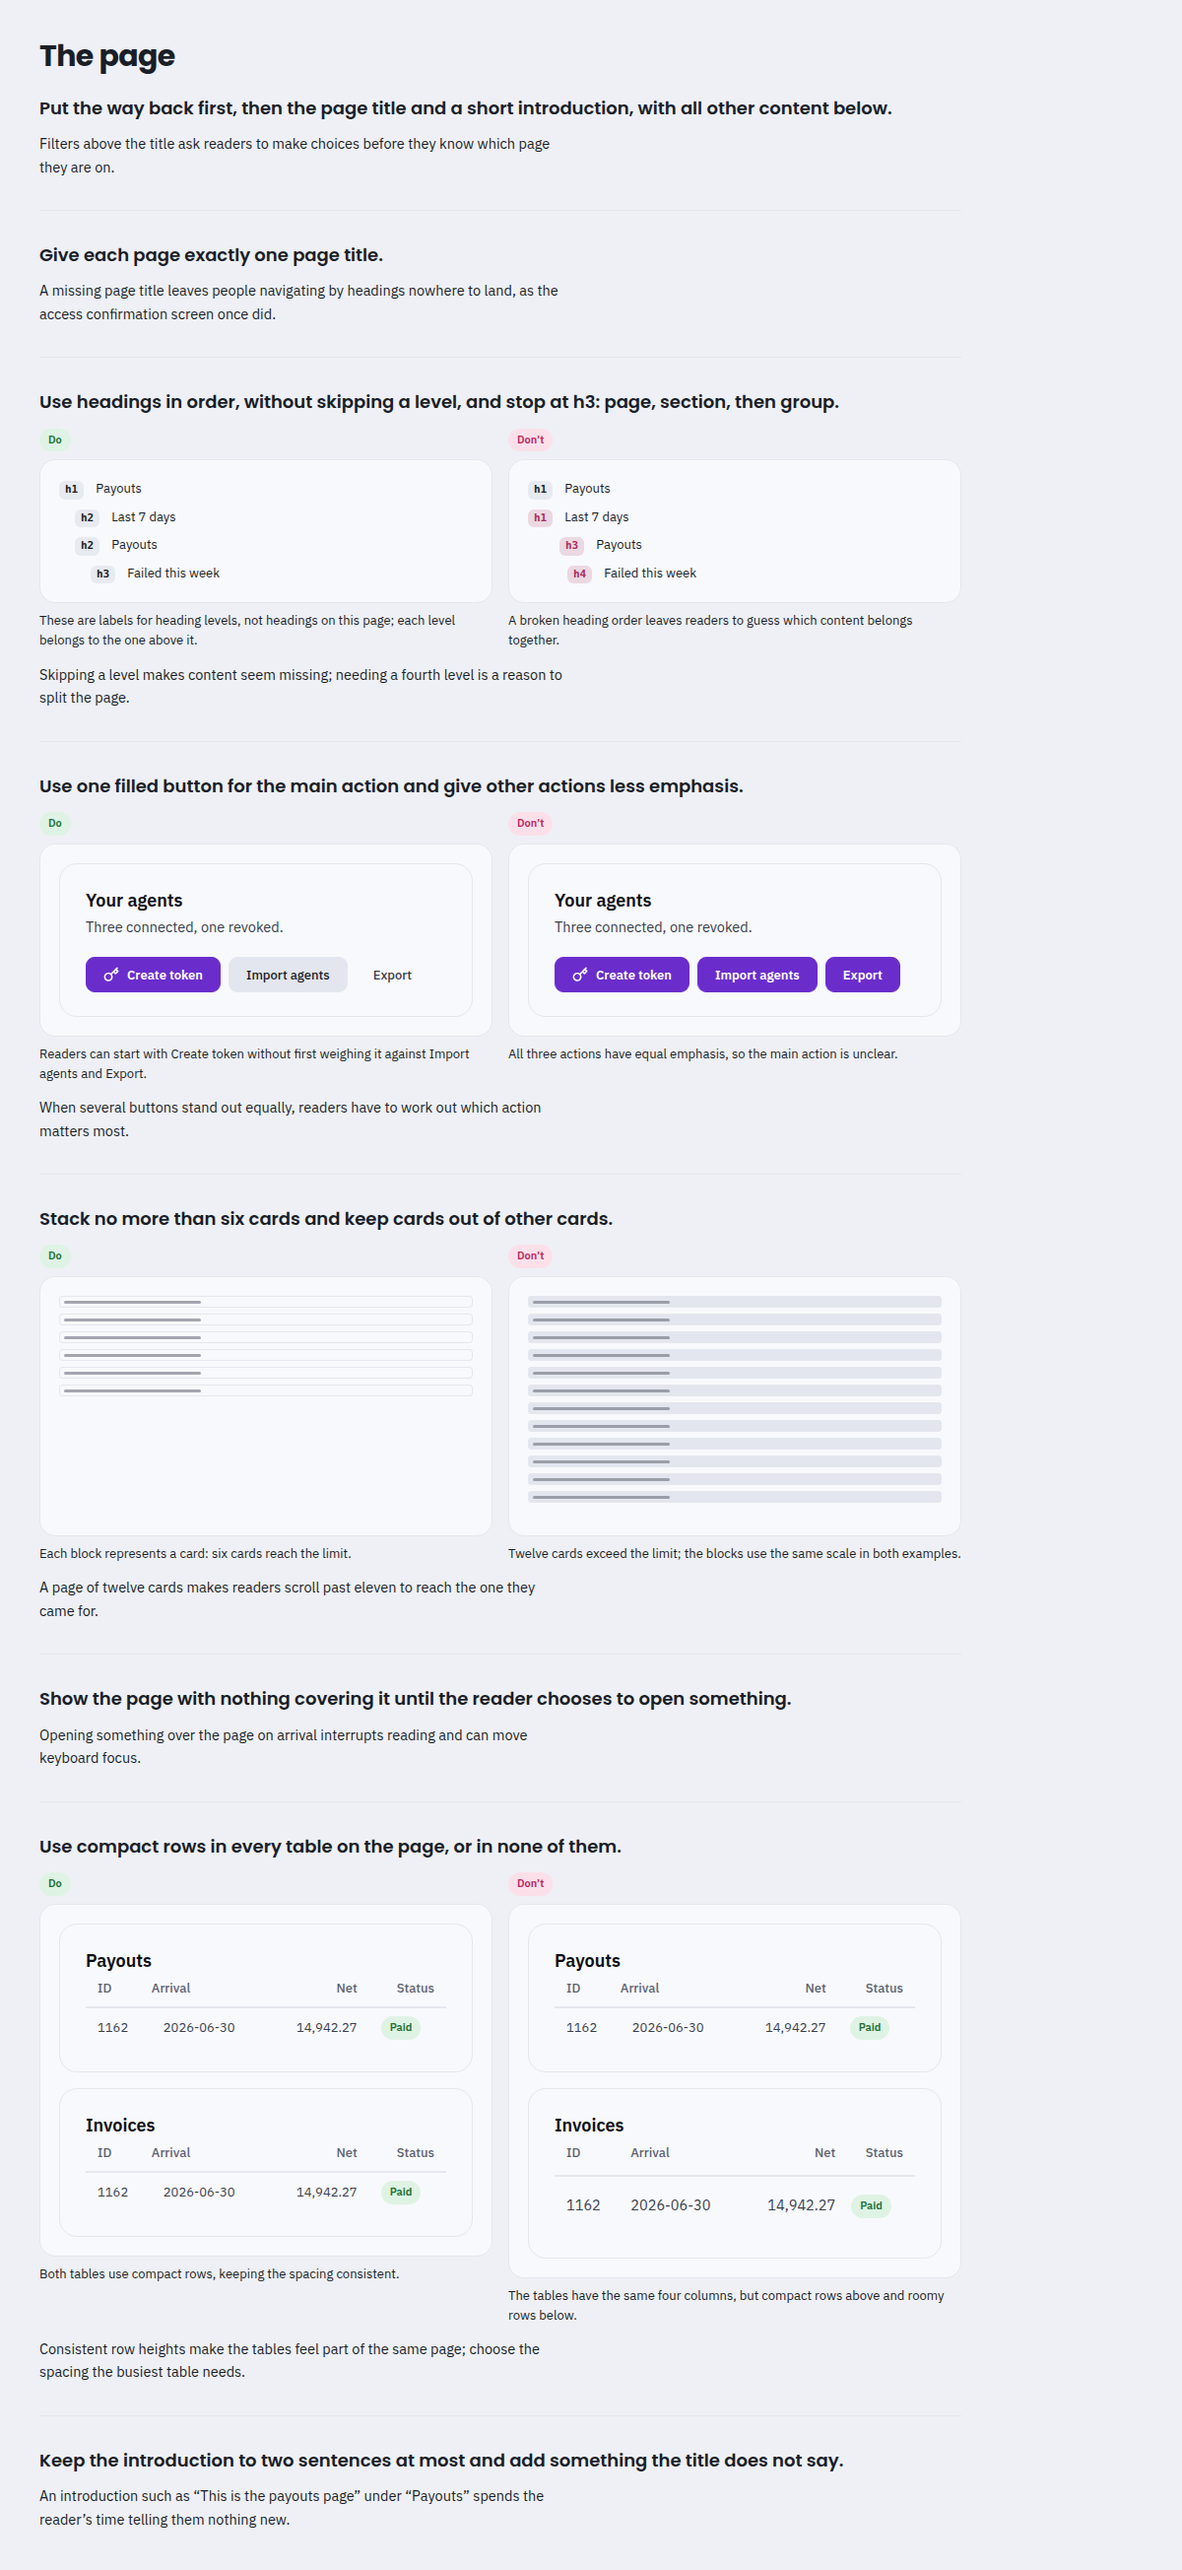
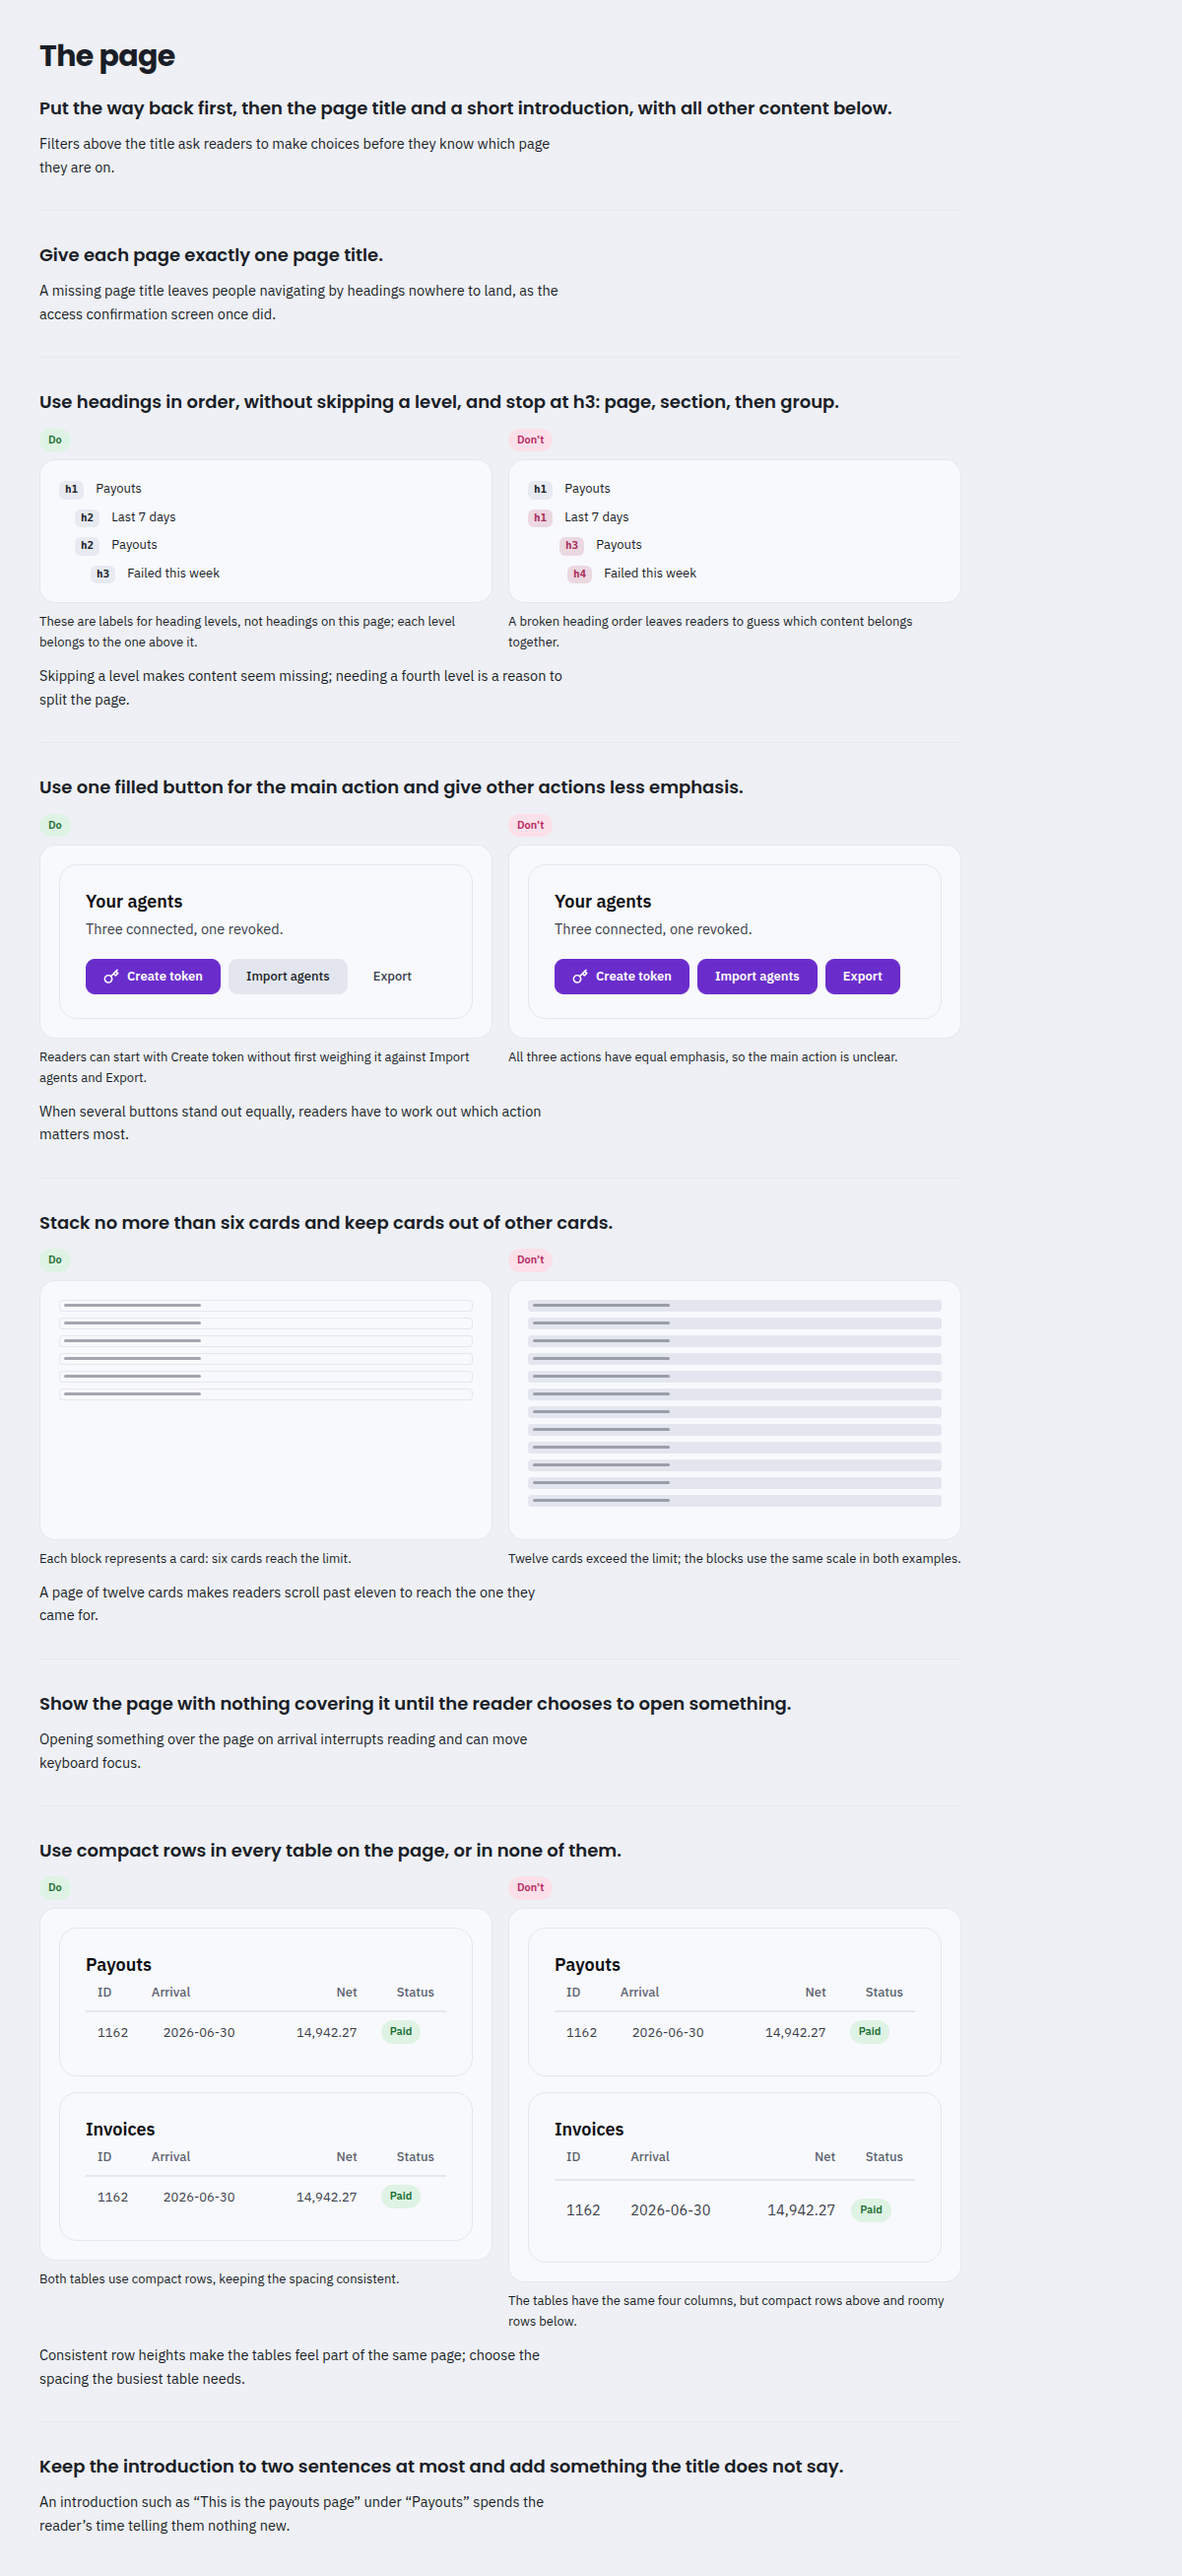
Review round 1: the caption inherits its leading, and the sweep reads HTML (#310)
The rank table says a caption's line-height is inherited, and the page's rule
left the property out — but the shared sheet's `font` shorthand had pinned 1.55
on the same selector earlier in the cascade, so the rule rendered at a number of
the page's own. `.gc-cell__cap` writes `line-height: inherit`, and the gate
accepts that one value where a rank inherits its leading, with a mutation
putting 1.55 back.

The widened sweep listed every extension but `.html`, while the sibling gate
named beside it in the specification sweeps the same directories including it.
Two site pages carry a <style> block, so a note in one would have been read by
nobody. A missing directory no longer throws either.

Evidence re-shot: the caption is 21.06px now and the page 2614px.

Claude-Session: https://claude.ai/code/session_017cDCVVizw1yrDKcUvECFx8

diff --git a/src/styles/type-ranks.test.js b/src/styles/type-ranks.test.js
@@ -12,7 +12,7 @@
  */
 import { test } from 'node:test';
 import assert from 'node:assert/strict';
-import { readFileSync } from 'node:fs';
+import { existsSync, readFileSync } from 'node:fs';
 import path from 'node:path';
 import { fileURLToPath } from 'node:url';
 import { kitSheetNames, walk } from '../../scripts/lib/icon-cascade.js';
@@ -30,10 +30,10 @@ const TOKENS = readFileSync(path.join(src, 'tokens/tokens.css'), 'utf8');
  * mutations below are strings, not rules anybody renders.
  * why: CONTRIBUTING.md#a-gate-discovers-its-subjects-and-never-enumerates-them */
 const DRAWN_IN = ['stories', 'site', 'react/src', '.storybook'];
-const READ = /\.(?:css|m?js|jsx|tsx?)$/;
+const READ = /\.(?:css|m?js|jsx|tsx?|html)$/;
 const SHEETS = [
   ...kitSheetNames(src).map((rel) => ({ rel: `src/${rel}`, css: readFileSync(path.join(src, rel), 'utf8') })),
-  ...DRAWN_IN.flatMap((dir) => walk(path.join(root, dir))
+  ...DRAWN_IN.map((dir) => path.join(root, dir)).filter(existsSync).flatMap((dir) => walk(dir)
     .filter((f) => READ.test(f) && !/\.test\.[a-z]+$/.test(f))
     .map((f) => ({ rel: path.relative(root, f), css: readFileSync(f, 'utf8') }))),
 ];
@@ -106,9 +106,12 @@ const rankProblems = (ranks, rules) => {
           + `the rule has ${r.decls[prop] ?? 'none'}.`);
       }
     }
-    if (!rank.leading && 'line-height' in r.decls) {
+    // `inherit` is the one line-height a rank that inherits one may write, and a
+    // restated selector needs it: an earlier rule for the same element can have
+    // pinned a number, and omitting the property does not take that back.
+    if (!rank.leading && 'line-height' in r.decls && r.decls['line-height'] !== 'inherit') {
       out.push(`${r.where} \`${r.selector}\` is rank ${rank.name}, which inherits its line-height; `
-        + `the rule sets ${r.decls['line-height']}.`);
+        + `the rule sets ${r.decls['line-height']}. Write \`inherit\` or nothing.`);
     }
   }
   return out;
@@ -243,6 +246,14 @@ test('a caption at the label’s weight has nothing left to hold it under the la
   const got = orderProblems(RANKS.map((r) => (r.name === 'caption' ? { ...r, weight: '--weight-medium' } : r)), TOKENS);
   assert.equal(got.length, 1, got.join('\n'));
   assert.match(got[0], /caption shares label's 13px and is not lighter than it/);
+});
+
+test('a number where a rank inherits its leading is caught, and `inherit` is not', () => {
+  const pinned = rankProblems(RANKS, notedRules(mutate('stories/guidelines/_the-page.js',
+    'line-height: inherit;', 'line-height: 1.55;')));
+  assert.equal(pinned.length, 1, pinned.join('\n'));
+  assert.match(pinned[0], /`\.gc-cell__cap` is rank caption, which inherits its line-height; the rule sets 1\.55/);
+  assert.deepEqual(rankProblems(RANKS, RULES), [], 'the rule as written says `inherit`, which is allowed');
 });
 
 test('a card title token moved under the body size breaks the order', () => {

diff --git a/stories/guidelines/_the-page.js b/stories/guidelines/_the-page.js
@@ -74,11 +74,13 @@ export const SPEC_CSS = `
       max-width: var(--prose-body); }
     /* The caption's own row, #310: 13px at the body's weight, so the smaller
        line under a specimen stops reading as the bolder of the two. Not the
-       label's --muted ink either — one ink on this page. */
+       label's --muted ink either — one ink on this page. The leading is written
+       out because the rank inherits one and the shared sheet's shorthand pinned
+       1.55: dropping the property here would leave that number standing. */
     .gc-cell__cap {
       /* rank: caption */
       font-size: var(--text-sm); font-weight: var(--weight-normal);
-      color: var(--text); }
+      line-height: inherit; color: var(--text); }
   </style>`;
 
 const stage = (html) => `<div class="gl-stage">${html}</div>`;

diff --git a/PR.md b/PR.md
@@ -25,12 +25,13 @@ page's caption and the why under it compute to:
 
 | | before | after |
 |---|---|---|
-| `.gc-cell__cap` — a caption | 13px / **500** / 20.15px | 13px / **400** / 20.15px |
+| `.gc-cell__cap` — a caption | 13px / **500** / **20.15px** | 13px / **400** / **21.06px** |
 | `.gc-why` — the why under it | 14.5px / 400 / 23.49px | unchanged |
 | ink, both, light | `rgb(26, 30, 39)` | unchanged |
 | ink, both, dark | `rgb(233, 231, 240)` | unchanged |
 
-The weight is the only property that moves, and it moves on one selector.
+Two properties move, on one selector. The weight is the decision; the leading is the rank's word
+*inherited* actually taking effect — see the review below, which is what found it.
 
 **Two: two ranks now share a size.** `caption` is `--text-sm`, which is `label`'s size. The gate's
 order rule was *each rank strictly smaller than the one above it*, and a sixth row at 13px under a
@@ -101,16 +102,18 @@ that draws a specimen pair.
 | | light | dark |
 | --- | --- | --- |
 | the page, before | `before-page-light.png` (1200 × 2628) | `before-page-dark.png` (1200 × 2628) |
-| the page, after | `after-page-light.png` (1200 × 2608) | `after-page-dark.png` (1200 × 2608) |
+| the page, after | `after-page-light.png` (1200 × 2614) | `after-page-dark.png` (1200 × 2614) |
 | one rule, life size, before | `before-rule-light.png` | `before-rule-dark.png` |
 | one rule, life size, after | `after-rule-light.png` | `after-rule-dark.png` |
 
 The crop is the heading-order rule: two captions and the why under them in one frame, which is where
 the weight is legible at 1:1.
 
-**The 20px the page lost.** Eight captions, measured in the same browser: seven keep their height and
-*"Twelve cards exceed the limit…"* falls from two lines to one — normal weight is narrower, so it
-stops wrapping at 1200 wide. That is the whole height difference.
+**The 14px the page lost.** Eight captions, measured in the same browser. Seven keep their line count
+and gain the 0.91px a line that 1.62 costs over 1.55 — 40px → 42px for the two-line ones, 20px → 21px
+for the one-line ones. The eighth, *"Twelve cards exceed the limit…"*, falls from two lines to one:
+normal weight is narrower, so it stops wrapping at 1200 wide. 2628px → 2614px is those two effects
+against each other, and nothing else on the page moved.
 
 Reproduce either side:
 
@@ -130,6 +133,7 @@ node scripts/evidence/guideline.mjs /tmp/before docs/evidence/caption-rank befor
 | the `label` row keeps its medium weight and `--muted` ink | Artur, same round | issue #310 |
 | `caption` sits between `label` and `chip`, not above `label` | this branch | the table reads down in decreasing prominence, and at equal size the lighter row is the lower one |
 | a tie on size is broken by weight rather than by dropping the order rule | this branch | `src/styles/type-ranks.test.js`, and the sentence it reads in the specification |
+| a rank that inherits its leading may write `line-height: inherit`, and only that | this branch | the gate's own comment; it is the one value that takes back a number an earlier rule for the same element pinned |
 | the rank-note sweep reaches `stories/`, `site/`, `react/src` and `.storybook` | this branch | the gate's own comment; #298 had asked for it in the sheet it could not gate |
 | the three other restated rules on that page stay unnoted | this branch | they are #298's rules and outside this issue; noting them is additive and needs no decision from Artur — say the word and it is three lines |
 | no version bump, no changelog entry | the coordinator's standing rule | this file, below |
@@ -153,13 +157,69 @@ node --test src/styles/type-ranks.test.js stories/guidelines/letter-case.test.js
 ℹ tests 81   ℹ pass 81   ℹ fail 0
 ```
 
-## Reviews
+## Review
 
-_Left for the coordinator._
+One independent diff review ran on this branch before it was handed over. It was interrupted
+partway — its four specialist passes never returned — so it is one critical pass, and what it did
+not reach is listed with it. **Two findings, both real, both fixed and re-verified.**
+
+**The caption claimed a leading it did not render.** The rank table says a caption's line-height is
+*inherited*. The page's rule set size, weight and ink and left line-height out — but
+`stories/guidelines/_layout.js` writes `.gc-cell__cap { font: 400 12px/1.55 … }` for the same
+selector *earlier* in the cascade, and omitting a property does not take back a number an earlier
+rule pinned. The rendered caption kept 1.55, a number of this page's own, which is exactly what the
+comment four lines above says the page does not do. The gate could not see it: it refuses the `font`
+shorthand *inside* a noted rule for this very reason, and here the shorthand sat in an unnoted rule
+for the same selector. The three siblings on that page each reset their leading; the caption was the
+only one that did not.
+
+Fixed both halves. `.gc-cell__cap` writes `line-height: inherit`, and the gate now accepts `inherit`
+— and only `inherit` — where a rank inherits its leading, with a mutation putting 1.55 back to prove
+the check still bites. The caption's leading is `--leading-normal` from the body now, 21.06px against
+20.15px, which is the second property in the before/after table above and the reason the page is
+2614px rather than 2608px.
+
+**The widened sweep could not read an HTML file.** `READ` listed `css`, `js`, `mjs`, `jsx`, `ts` and
+`tsx`, while the sibling gate named beside it in the specification — `letter-case.test.js` — sweeps
+the same four directories *including* `.html`. `site/index.html` and `site/changelog.html` each carry
+a `<style>` block with a dozen `font-size` declarations, so a rank note written in one would have
+been read by nobody, and the sentence this branch added to the specification — *"the stories and
+pages this repo draws"* — would have overstated the gate. `html` is in the pattern now; the note
+count is unchanged, because none of those files carries a note today. The same finding's second
+half: `walk()` throws on a directory that is not there, where the sibling gate guards with
+`existsSync`. It does too now — latent rather than live, all four exist.
+
+**Verified clean by the same pass**, each against the tree rather than against this body: the note
+count of 15; all eight of the original mutation tests still killing the case they name; the order
+rule matching the sentence the specification now carries; the px figures 30/18/14.5/13/13/11 against
+`tokens.css`; the `label` row untouched; and no statement of "five ranks" left anywhere — it read
+every `grep -rni "five"` hit and found the rest to be about easings, shadows, stylesheets, statuses
+and poll intervals.
+
+**What the review did not reach**, stated because it was cut short rather than because it was
+scoped out: this body and the evidence README were not fact-checked; `scripts/evidence/guideline.mjs`
+was not reviewed; the other citation gates were not run by it (they are run below); and its red-team
+pass never ran.
+
+**One thing it raised that is deliberately not fixed here.** The sixteen other guideline pages still
+take `.gc-cell__cap` from the shared sheet — 12px, medium-free but `--muted` — with no note, so the
+new row does not describe them. That is #298's decision that only this page moves, and moving the
+rest is a separate change with sixteen pages of evidence behind it.
+
+| review | who | findings | resolved |
+| --- | --- | --- | --- |
+| diff review, one critical pass (interrupted before its specialist passes) | `diff-reviewer`, on this branch at `add05a0` | 2 real (1 × P1, 1 × P2) | both, with a gate mutation for the first and the note count re-run for the second |
+
+_The rows below are the coordinator's._
 
 | review | who | findings | resolved |
 | --- | --- | --- | --- |
 |  |  |  |  |
+
+**`ai-slop-detector`**: PASS at paranoid over `PR.md`, the gate, the story and the shot scripts. One
+warning stands on `docs/evidence/caption-rank/README.md` — `scope-template` on *"falls from two
+lines to one"*, which is a measurement of two rendered line counts and not the enumerating-scope
+cliché the rule is after. Left as written.
 
 ## Changelog entry
 

diff --git a/docs/evidence/caption-rank/README.md b/docs/evidence/caption-rank/README.md
@@ -21,11 +21,15 @@ themes:
 
 | | before | after |
 | --- | --- | --- |
-| `.gc-cell__cap` | 13px / 500 / 20.15px | 13px / 400 / 20.15px |
+| `.gc-cell__cap` | 13px / 500 / 20.15px | 13px / 400 / 21.06px |
 | `.gc-why` | 14.5px / 400 / 23.49px | unchanged |
 | ink, light | `rgb(26, 30, 39)` | unchanged |
 | ink, dark | `rgb(233, 231, 240)` | unchanged |
 
-**The page is 20px shorter after**, 2628 → 2608. Of the eight captions, seven keep their height
-and "Twelve cards exceed the limit…" falls from two lines to one: normal weight is narrower, so it
-stops wrapping at this width. Nothing else on the page moved.
+The leading moves because the rank inherits one: the shared sheet's `font` shorthand had pinned
+1.55 on this selector, and the page's rule says `inherit` now, which is the body's 1.62.
+
+**The page is 14px shorter after**, 2628 → 2614. Seven of the eight captions keep their line count
+and gain the 0.91px a line the looser leading costs; the eighth, "Twelve cards exceed the limit…",
+falls from two lines to one, because normal weight is narrower and it stops wrapping at this width.
+Nothing else on the page moved.
